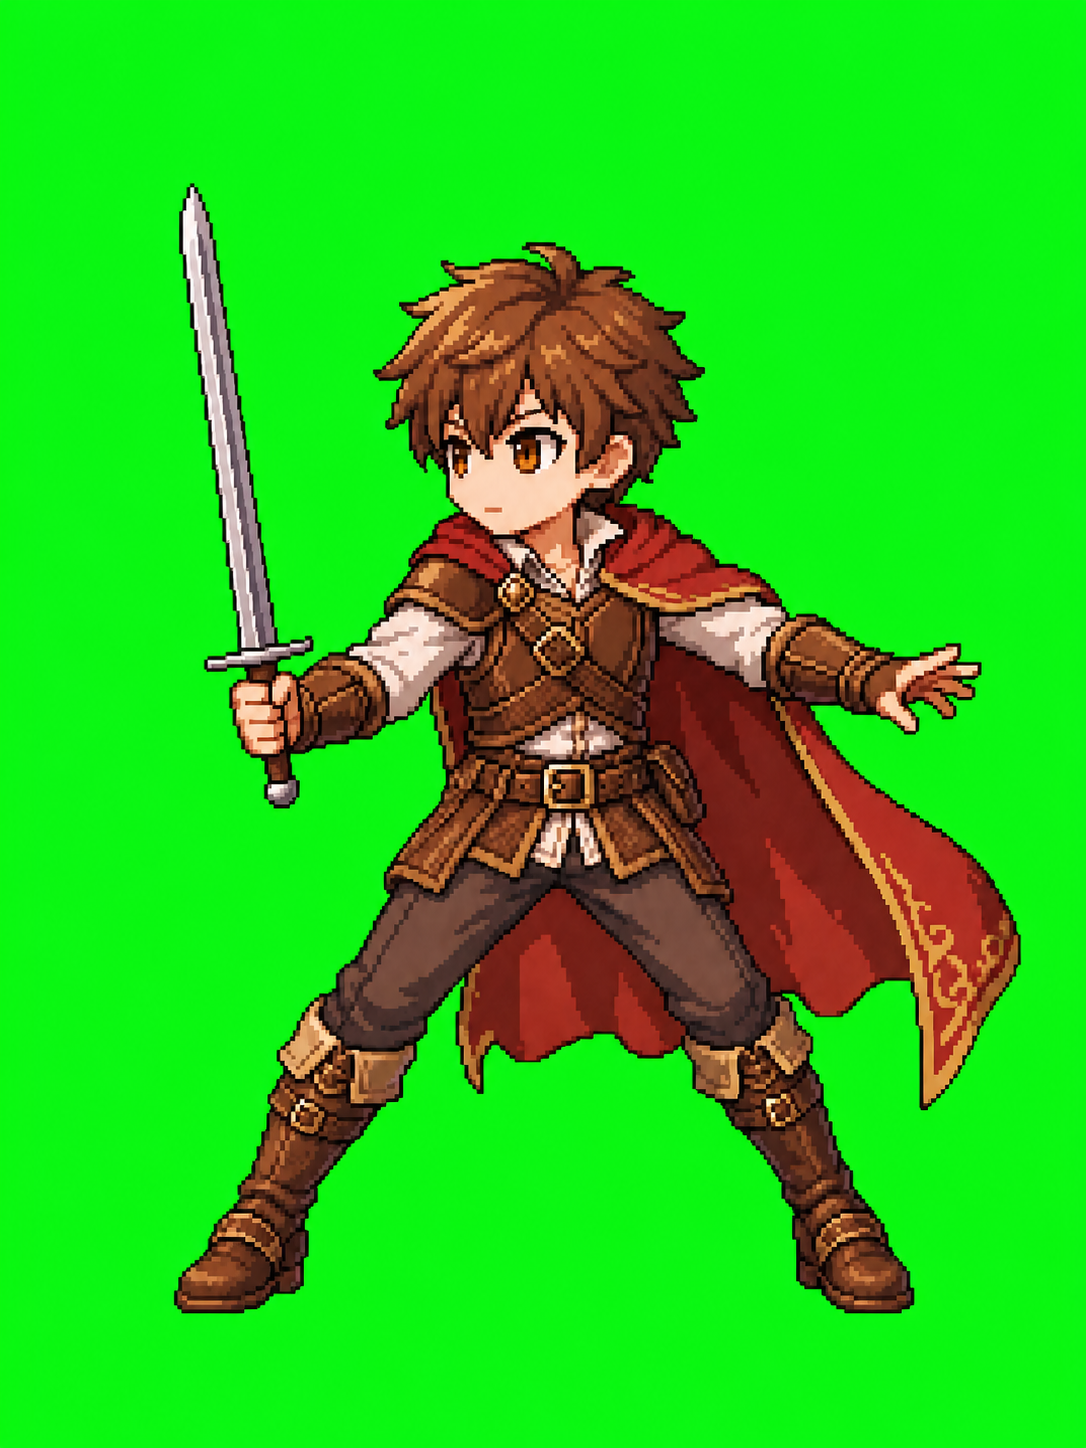
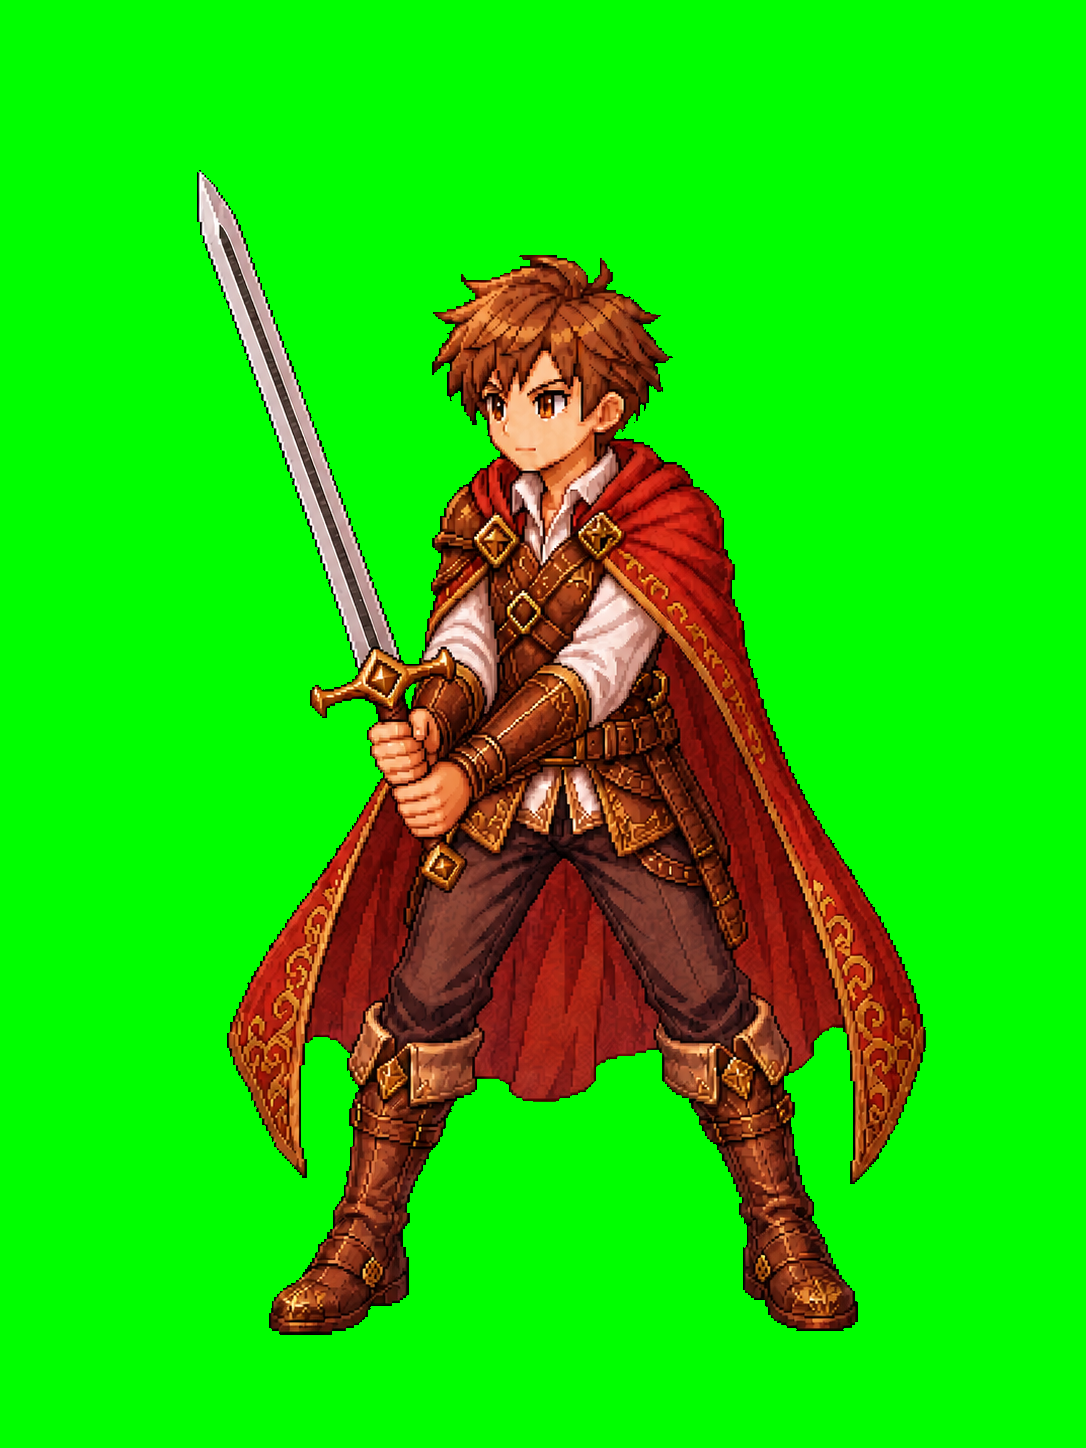
art: update Ludo battle poses

Changed region(s): [[0.1519, 0.1243, 0.942, 0.9323]]

diff --git a/TASKS/17_戰鬥角色美術統一.md b/TASKS/17_戰鬥角色美術統一.md
@@ -1,0 +1,86 @@
+# 戰鬥角色 3.5 頭身統一與動畫補齊
+
+- Task 版本: v1.23
+- 對應規則來源快照: N/A（John 2026-08-09 戰鬥角色美術方向定案；不對應 `build_cq2.py` 規則）
+- 狀態: 實作中（規格與產線文件已定案；角色重製、補幀與 runtime 整合待執行）
+- 規格來源: [`docs/design/戰鬥立繪規格.md`](../docs/design/戰鬥立繪規格.md)
+- 產線來源: [`docs/pipeline/battle_art/workflow.md`](../docs/pipeline/battle_art/workflow.md)
+- 驗收來源: [`docs/pipeline/battle_art/checklist.md`](../docs/pipeline/battle_art/checklist.md)
+
+## 目標
+
+將我方戰鬥角色統一為約 3.5 頭身的 HD Pixel Art 家族，再依角色設定身高調整 runtime 大小。亞倫、莉莉、潔絲是已驗收的比例基準；路德、瑪琳必須從 Seed 開始重製，不可用 Resize 修正舊二頭身素材。
+
+## 不在本任務範圍
+
+- overworld 行走圖仍可使用二頭身，不因戰鬥立繪改版而全數重做。
+- 不修改角色設定身高、服裝、武器設計或戰鬥數值。
+- 不在預覽驗收階段覆寫 `godot-project/assets/battle/` 現行素材。
+
+## 已完成的規格工作
+
+- [x] 我方戰鬥角色定案為約 3.5 頭身，可接受區間 3.3～3.7。
+- [x] 將「內部頭身比例」與「runtime 角色身高」分開定義。
+- [x] 正式角色 prompt 改用 `battle_role_hd_pixel_v5.md`；舊 v1～v4 保留為凍結歷史快照。
+- [x] 定義 G0～G7 分階段驗收，不得跳過鍵色靜態幀、Alpha 靜態幀與 GIF 驗收。
+- [x] 定義 Idle 的真實局部重繪、雙腳 root-lock、武器完整與首尾無縫規則。
+
+## 現況與 TODO 總表
+
+| 角色 | 身高 | 比例判定 | 可保留 | 還沒做／需重做 |
+|---|---:|---|---|---|
+| 亞倫 `alan` | 178 cm | 3.5 頭身基準 | Seed、weapon、idle 4、hurt、cast、death、attack 5 | runtime 依身高換算＋全隊 lineup 複驗 |
+| 莉莉 `lily` | 162 cm | 3.5 頭身基準 | Seed、weapon、idle 4、hurt、cast | **death 1、attack 約 5**；runtime 依身高換算＋全隊 lineup 複驗 |
+| 潔絲 `jess` | 167 cm | 3.5 頭身基準 | Seed、weapon、idle 4（`0→2→3→2`） | **hurt 1、cast 1、death 1、attack 約 5**；全隊 lineup 複驗 |
+| 路德 `ludo` | 165 cm | 3.5 頭身 Seed 已驗收 | Menu Art、weapon reference、雙手持劍 Seed、idle 4（`0→1→2→1`）、hurt 1、cast 1、death 1 | **attack 重做**；全隊 lineup 複驗 |
+| 瑪琳 `marin` | 158 cm | 3.5 頭身 Seed 已驗收 | Menu Art、weapon reference、左手短刀 Seed、idle 4、hurt、cast、death | **attack 重做**；runtime 換圖與全隊 lineup 複驗 |
+
+> `cast` 目前尚未接入 runtime，但仍屬角色完整交付集；整合時可先放入素材並保留未使用狀態。
+
+## 執行順序
+
+### Phase 1：重製比例不合格角色
+
+- [x] **P1-1 路德 Seed**：以 Menu Art／角色設定＋現有 weapon reference 重畫 165 cm、3.5 頭身中性備戰 Seed；2026-08-10 已通過 G1／G2（雙手持劍候選 3、Alpha、等高比例與設定身高 lineup）。
+- [x] **P1-2 瑪琳 Seed**：以 Menu Art／角色設定＋現有 weapon reference 重畫 158 cm、3.5 頭身中性備戰 Seed；2026-08-11 已通過 G1／G2（左手持短刀候選 3、Alpha 邊緣與洋紅 spill 驗收）。
+- [x] **P1-3 Seed lineup**：2026-08-11 五人等主體高度與設定身高 lineup 已驗收；人物高度改以中央人體頭頂至最低鞋底計算，武器不納入縮放量測。
+
+### Phase 2：補齊與重製動作
+
+- [ ] **P2-1 路德全套**：idle 4 → hurt 1 → cast 1 → death 1 → attack 約 5；2026-08-12 `idle / ready_guard` 採 John 核可的分段 key pose fallback，正式循環 `0 → 1 → 2 → 1`，G4～G6 通過後已於 G7 以共用 0.5× Nearest 正規化至 543×724 並整合 `hero_ludo_idle_0..3.png`。2026-08-13 `hurt / recoil_guard` 採候選 A 劍身拉直修正版，G3／G5 通過後以相同 0.5× Nearest 對齊 Idle 的 bottom-center 與腳底線，整合為 `hero_ludo_hurt.png`。同日 `cast / two_hand_focus` 採完整左側身、閉眼、雙手伸直發射姿勢與長劍完整收鞘版本，G3／G5 通過後以相同尺度與錨點新增 `hero_ludo_cast.png`；目前 Cast 尚未接線。`death / fall_forward` 採五體投地趴伏版本，G3／G5 通過後以 0.5× Nearest 保持尺度，橫向中心與最低點對齊 Runtime 共同中心／地面線並整合為 `hero_ludo_death.png`。依 John 指示，Godot import／測試延後至 Attack 整合後一併執行。attack 尚待重做。
+- [ ] **P2-2 瑪琳全套**：idle 4 → hurt 1 → cast 1 → death 1 → attack 約 5；2026-08-11 `idle / calm_ready` 採 `0 → 1 → 2 → 1` 分段 key pose，John 手動去背的三張 `finetune` 已通過 G6；G7 已將 543×724 Alpha 四幀整合為 `hero_marin_idle_0..3.png`，腳底 `y=628`。2026-08-13 `hurt / recoil_guard` G3 採候選 1，G5 Alpha 已通過驗收（髮梢紫紅 spill 已修正且未改變 Alpha 輪廓）；同日 `cast / offhand_rear_cast` 採三分之二背面候選 1 的刀身軸線修正版，G3／G5 已通過，二值 Alpha 只重著色 195 個明顯洋紅污染像素。`death / fall_forward` 採側趴倒地候選 1，頭、軀幹與腿確實落地，短刀完整掉落於左手附近；G3／G5 已通過，Alpha 保持二值並清除輪廓洋紅污染。hurt／cast／death 尚待瑪琳全套完成後統一進入 G7；目前只剩 attack 待重做。
+- [ ] **P2-3 莉莉補齊**：death 1 → attack 約 5。
+- [ ] **P2-4 潔絲補齊**：hurt 1 → cast 1 → death 1 → attack 約 5。
+
+多幀動作（idle／attack）獨立走完 `G3 首幀 → G4 鍵色 strip 靜態 → G5 Alpha 靜態 → G6 GIF`；單幀動作（hurt／cast／death）走 `G3 鍵色靜態 → G5 Alpha 靜態`。不得因同一角色的上一個動作已通過而跳關。
+
+### Phase 3：runtime 正規化與全隊驗收
+
+- [ ] **P3-1 身高正規化**：以潔絲 `167 cm = 250px` 為基準，按 `250 × cm ÷ 167` 計算每位角色 idle 主體可見高度；runtime 程式調整由 MOD-E owner 執行或協調。
+- [ ] **P3-2 同角色狀態校正**：attack／hurt／cast 對齊該角色 idle 主體高度與腳底線；同一 strip 共用一個倍率。
+- [ ] **P3-3 五人靜態 lineup**：同地面線、實際身高、同畫面並列檢查比例、排列、武器與視覺密度。
+- [ ] **P3-4 五人 Idle GIF**：同時播放，檢查呼吸幅度、節奏、雙腳錨點、武器完整與循環。
+- [ ] **P3-5 John 最終核可**：靜態 lineup 與 GIF 都通過後，才進入 G7。
+
+### Phase 4：正式整合
+
+- [ ] 由 MOD-I owner 先備份現行 runtime 素材，再以固定 `hero_<id>_*` 檔名替換；不在未核可階段覆寫。
+- [ ] 更新各角色 `prompts/descriptions/<id>.md` 的已驗收狀態與循環幀順序。
+- [ ] 更新 `CREDITS_素材授權.md`，確認 Pixel Art texture 使用 Nearest。
+- [ ] 執行 Godot headless 檢查與戰鬥場景驗證，確認無 import error／warning。
+- [ ] 本 Task 狀態改為「已驗收」，並同步相關章節任務狀態。
+
+## 檔案 Owner 與衝突規則
+
+- 本任務擁有：`assets-source/role/main/{alan,lily,jess,ludo,marin}/battle_*`、`docs/pipeline/battle_art/**`、本 Task。
+- `godot-project/assets/battle/**` 仍由 MOD-I（`TASKS/09_美術管線.md`）擁有；G7 正式換圖必須由 MOD-I owner 執行或明確協調後修改。
+- `godot-project/scripts/battle/**` 仍由 MOD-E（`TASKS/05_戰鬥ATB.md`）擁有；角色身高正規化如需修改 `battle_state_machine.gd`，必須交由 MOD-E owner 執行或先取得協調，本任務不直接跨 owner 修改。
+- `TASKS/16_第二章施工.md` 只消費本任務產出；不得另外建立一套莉莉／潔絲戰鬥圖流程。
+
+## Definition of Done
+
+1. 五位角色的 Seed 與所有要求動作都符合約 3.5 頭身與角色外觀 reference。
+2. 每個動作都有可追溯的鍵色靜態幀、Alpha 靜態幀與 John 分階段驗收結果；多幀動作另有循環／播放 GIF。
+3. 五人依設定身高排列後，內部比例、Pixel Art 密度、呼吸幅度、腳點與武器完整性一致。
+4. John 通過全隊靜態 lineup 與 Idle GIF。
+5. 正式素材已整合、CREDITS 與 descriptions 已同步，Godot headless 檢查通過。

diff --git a/CREDITS_素材授權.md b/CREDITS_素材授權.md
@@ -94,9 +94,12 @@ LPC 角色產生器圖層合成（CC-BY-SA/GPL），圖層配方參考 overworld
   武器圖層取自 LPC weapon walk（longsword/dagger/saber，CC-BY-SA/GPL）。
   - **戰鬥動畫命名改制（2026-07-27，作法B）**：runtime 改為每角一套 `hero_<id>_idle_0..3` ＋單一 `hero_<id>_attack_0..N`（不再分 slash/thrust/spellcast；見 `battle_state_machine.gd` `_load_frames`／`_load_anim_frames`）。舊 `hero_ludo_f/slash/thrust/spellcast`、`hero_marin_f0-3`、`hero_alan_f0-3` 已改名或移除。
   - `hero_marin_idle_0-3` / `hero_marin_attack_0-4`（2026-07-30 更新）：Marin 重製的二頭身戰鬥 idle／attack strip 切幀，AI 生成（imagegen）＋去背，經 John 驗收；attack 五幀已統一為與 idle 相同的 543×724 畫布，以雙腳區域錨點與腳底 y=659 鎖定，消除 idle→attack 位移。來源 strip 於 `assets-source/role/main/marin/`（`battle_idle_*`／`battle_attack_*`）。取代 2026-07-20 的舊 `hero_marin_f0-3`。提示詞作者 John／協作 Agent。
-  - `hero_ludo_idle_0-3`（2026-07-27 整合）：Ludo 重製 idle 切幀（AI 生成，來源 `assets-source/role/main/ludo/ludo_battle_idle_*`）。**2026-07-27 再修**：原四幀切圖腳部水平漂移（idle 時像在平移），以「腳部中心對齊畫布中心」重新水平置中消除。`hero_ludo_attack_0-4`（2026-07-30 更新）：Ludo 重製的 `sword_diagonal_slash` 五幀 strip，AI 生成＋去背；逐幀以與 idle 相同的 543×724 畫布、可見中心與腳底 y=610 正規化，消除 idle→attack 的向上位移，已取代舊 LPC slash 六幀。
+  - `hero_ludo_idle_0..3`（2026-08-12 更新）：Ludo 3.5 頭身雙手持劍 `idle / ready_guard` 四幀循環，由 OpenAI 內建 imagegen 依已驗收 Seed、長劍 reference 與 Idle 首幀生成 Frame 0／2；Frame 1 使用固定端點 motion-compensated midpoint，正式循環為 `0 → 1 → 2 → 1`。G3～G7 經 John 分階段驗收，正式幀以共用 0.5× Nearest 正規化至 543×724、角色可見中心約 `x=268`、可見框下界 `y=659`。來源保存於 `assets-source/role/main/ludo/battle_idle_0..3.png`、`battle_idle_strip_{raw,alpha}.png`、`battle_idle_review_montage.png` 與 `battle_idle_review.gif`；替換前 runtime 四幀封存於 `assets-source/role/main/ludo/unofficial/idle/runtime_before_3_5_head/`。提示詞作者 John／協作 Agent。`hero_ludo_attack_0-4` 仍為 2026-07-30 的舊二頭身素材，待 P2-1 重做。
+  - `hero_ludo_hurt.png`（2026-08-13 更新）：Ludo 3.5 頭身雙手持劍 `hurt / recoil_guard` 單幀，由 OpenAI 內建 imagegen 依已驗收 Seed、長劍 reference 與 Idle 首幀生成；John 選定候選 A，並依標註局部重繪拉直劍身。受擊來自畫面左側，上身向右短促後仰，雙腳接地且雙手持續握住同一劍柄。G3／G5／G7 經 John 分階段驗收，來源保存於 `assets-source/role/main/ludo/battle_hurt_{raw,alpha}.png`；正式圖以 0.5× Nearest 正規化至 543×724、可見中心 `x=267`、腳底最後可見像素 `y=658`，對齊同角色 Idle。替換前 runtime 封存於 `assets-source/role/main/ludo/unofficial/hurt/runtime_before_3_5_head/`。提示詞作者 John／協作 Agent；依 John 指示，本次未執行 Godot import／測試。
+  - `hero_ludo_cast.png`（2026-08-13 新增）：Ludo 3.5 頭身 `cast / two_hand_focus` 單幀，由 OpenAI 內建 imagegen 依已驗收 Seed、長劍 reference 與 Idle 首幀生成；John 驗收完整左側身、閉眼集中、雙手向敵方伸直的發射姿勢，以及完整收入右腰劍鞘並延伸至小腿肚的長劍。此動作不含任何魔法特效，且為雙手持劍常規的指定例外。G3／G5／G7 經 John 分階段驗收，來源保存於 `assets-source/role/main/ludo/battle_cast_{raw,alpha}.png`；正式圖以 0.5× Nearest 正規化至 543×724、可見中心 `x=267`、腳底最後可見像素 `y=658`，對齊同角色 Idle。此前 runtime 無同名 Cast；Cast 目前尚未接入戰鬥程式。提示詞作者 John／協作 Agent；Godot import／測試依 John 指示延後至路德剩餘動作整合後一併執行。
+  - `hero_ludo_death.png`（2026-08-13 更新）：Ludo 3.5 頭身 `death / fall_forward` 單幀，由 OpenAI 內建 imagegen 依已驗收 Seed、長劍 reference 與 Idle 首幀生成；John 驗收五體投地趴伏、臉朝下、胸腹貼地、雙臂攤開、雙腿後伸、披風覆背鋪地與長劍掉落手邊的最終定格。G3／G5／G7 經分階段驗收，來源保存於 `assets-source/role/main/ludo/battle_death_{raw,alpha}.png`；正式圖以 0.5× Nearest 保持同角色尺度，置入 543×724 Runtime，橫向剪影中心約 `x=268`、最低可見像素 `y=658`，對齊同角色共同中心與地面線。替換前 runtime 封存於 `assets-source/role/main/ludo/unofficial/death/runtime_before_3_5_head/`。提示詞作者 John／協作 Agent；Godot import／測試依 John 指示延後至 Attack 整合後一併執行。
   - `hero_alan_idle_0-3` / `hero_alan_attack_0-4`（2026-07-30 更新）：Alan 重製的二頭身戰鬥圖，AI 生成（imagegen）＋去背，經 John 驗收。idle 為 `calm_ready` 四幀呼吸循環（來源 `assets-source/role/main/alan/battle_idle_strip_{raw,alpha}.png` 與 `battle_idle_0..3.png`，腳底與角色中心錨點已鎖定）；attack 五幀以共用 68% 等比縮放放入同一 543×724 畫布，雙腳錨點與腳底 y=605 鎖定，完整保留水平揮劍。取代先前暫用的舊 LPC idle 與 Alan 單張靜態 idle。提示詞作者 John／協作 Agent。
-  - `hero_<id>_hurt` / `hero_<id>_death`（三主角，2026-07-27 整合並接線）：受傷時 sprite 換 hurt 圖＋震動、HP 歸零換 death 圖（見 `battle_state_machine.gd` 我方 sprite 貼圖優先序）。來源：marin/alan＝`battle_{hurt,death}_alpha.png`、ludo＝`ludo_battle_{hurt,death}.png`。**cast 暫不整合**（尚無元素魔法技能）。AI 生成、提示詞作者 John／協作 Agent。
+  - `hero_<id>_hurt` / `hero_<id>_death`（三主角，2026-07-27 整合並接線）：受傷時 sprite 換 hurt 圖＋震動、HP 歸零換 death 圖（見 `battle_state_machine.gd` 我方 sprite 貼圖優先序）。來源：marin/alan＝`battle_{hurt,death}_alpha.png`；ludo 的 hurt／death 已由上方 2026-08-13 新版取代。**cast 暫不整合**（尚無元素魔法技能）。AI 生成、提示詞作者 John／協作 Agent。
   - Marin 短刀戰鬥外觀 seed（2026-07-23）：OpenAI 內建 imagegen 依正式 `battle_role_hd_pixel_v2` prompt、既有 Marin seed 參考生成，經 John 驗收。洋紅鍵原圖與 RGBA 版保存於 `assets-source/role/main/marin/battle_seed_raw.png`、`battle_seed_alpha.png`。此 seed 僅作後續動作產圖的固定外觀 reference，不屬於 runtime 動畫幀。提示詞作者 John／協作 Agent。
   - Marin 短刀與 Ludo 單手劍 weapon reference（2026-07-23）：OpenAI 內建 imagegen 依各自的武器部件說明圖萃取，經 John 驗收並以螢光綠鍵去背為 `assets-source/role/main/marin/battle_weapon_marin_alpha.png` 與 `assets-source/role/main/ludo/battle_weapon_ludo_alpha.png`。兩圖僅作後續 seed／動作產圖的武器外觀 reference，不屬於 runtime 素材；提示詞作者 John／協作 Agent。
   - Alan 單手劍 weapon reference（2026-07-27）：OpenAI 內建 imagegen 依 `menuart_alan.png` 腰佩劍外觀萃取，經 John 驗收並以洋紅鍵去背為 `assets-source/role/main/alan/battle_weapon_alan_alpha.png`（鍵圖保留為 `battle_weapon_alan_raw.png`）。此圖僅作後續 seed／動作產圖的武器外觀 reference，不屬於 runtime 素材；提示詞作者 John／協作 Agent。

diff --git a/docs/pipeline/battle_art/prompts/descriptions/ludo.md b/docs/pipeline/battle_art/prompts/descriptions/ludo.md
@@ -2,11 +2,16 @@
 
 - 底色: 螢光綠 `#00FF00`
 - ref: `godot-project/assets/ui/menuart_ludo.png`
-- seed ref: `assets-source/role/main/ludo/battle_seed_alpha.png`（2026-07-23 已驗收，採候選 2；既有日期版動作圖不可作為正式 seed）
-- weapon ref: `assets-source/role/main/ludo/battle_weapon_ludo_alpha.png`（單手劍外觀錨點；產 seed、動作首幀與 strip 時必須實際附圖）
-- 武器規格: 右手主手；單手劍總長（劍尖至劍柄尾端）約為角色從頭頂到鞋底完整高度的 2/3，劍身約為劍柄的 4 倍，銀灰劍身、中央血槽、暖金色護手與圓形劍首、深棕劍柄。可整體縮放以使右手完整握住劍柄，但不得改變部件比例。
-- 最後一版: 2026-07-22 的 idle strip／hurt／cast／death 為既有候選紀錄；`attack / sword_diagonal_slash` 五幀 strip 於 2026-07-27 以目前固定 seed 與 weapon reference 重產並驗收（準備 → 蓄力 → 斜向揮出 → 低位收招 → 回復）；2026-07-30 再正規化為與 idle 相同的 543×724 畫布，角色可見中心與腳底基準 y=610 鎖定，並整合為 runtime。
+- seed ref: `assets-source/role/main/ludo/battle_seed_alpha.png`（2026-08-10 已驗收；165 cm、約 3.5 頭身、雙手持劍候選 3；後續所有動作必須實際附圖）
+- weapon ref: `assets-source/role/main/ludo/battle_weapon_ludo_alpha.png`（劍的外觀錨點；產 seed、動作首幀與 strip 時必須實際附圖）
+- 比例狀態: **G1／G2 已通過**；2026-08-10 驗收 165 cm、約 3.5 頭身的雙手持劍 Seed 候選 3，Alpha、等高比例與設定身高 lineup 均通過。
+- 武器規格: 劍型沿用既有單手劍 weapon reference，但 Seed 與後續動作固定採雙手持握；右手靠護手、左手靠柄尾，雙手拇指與四指完整環握同一段握柄，雙腕與劍柄同軸且不得重疊。劍總長（劍尖至劍柄尾端）約為角色從頭頂到鞋底完整高度的 2/3，劍身約為劍柄的 4 倍，銀灰劍身、中央血槽、暖金色護手與菱形劍首、深棕劍柄。可整體縮放以使雙手正確握住，但不得改變部件比例或增加第二個柄尾／裝飾。
+- idle: `ready_guard`；G3 首幀 `assets-source/role/main/ludo/battle_idle_raw.png`（2026-08-11 已驗收候選 A；低重心防守、右手靠護手與左手靠柄尾，雙手完整持握同一劍柄）。前兩次完整 strip 因首幀漂移、安全留白不足與跨幀比例變化退回；2026-08-12 改採 John 核可的分段 key pose fallback，Frame 2 選候選 A、Frame 1 使用固定端點 motion-compensated midpoint，正式循環 `0 → 1 → 2 → 1`。G4～G6 已驗收，G7 以共用 0.5× Nearest 正規化為 543×724、角色可見中心約 `x=268`、可見框下界 `y=659`，整合至 `hero_ludo_idle_0..3.png`；舊 runtime 四幀封存於 `unofficial/idle/runtime_before_3_5_head/`。
+- hurt: `recoil_guard`；受擊來自畫面左側，上身向右短促後仰、雙腳保持接地，右手靠護手與左手靠柄尾持續雙手握住同一把劍，劍身斜護胸前。G3 採候選 A 的劍身拉直修正版，保存為 `assets-source/role/main/ludo/battle_hurt_raw.png`；G5 去背版為 `battle_hurt_alpha.png`。2026-08-13 完成 G7，以 0.5× Nearest 正規化至 543×724、可見中心 `x=267`、腳底最後可見像素 `y=658`，整合至 `hero_ludo_hurt.png`；舊 runtime 封存於 `unofficial/hurt/runtime_before_3_5_head/`。依 John 指示，本次只整合素材與文件，Godot import／測試暫緩。
+- cast: `two_hand_focus`；本動作依 John 指定作為雙手持劍常規的例外：完整左側身、閉眼集中，雙手離開武器向畫面左側伸直，十指呈發射姿勢但不含任何魔法特效；長劍完整收入右腰劍鞘，鞘尖延伸至小腿肚。G3／G5 已驗收，來源保存為 `assets-source/role/main/ludo/battle_cast_{raw,alpha}.png`。2026-08-13 完成 G7，以 0.5× Nearest 正規化至 543×724、可見中心 `x=267`、腳底最後可見像素 `y=658`，新增 `hero_ludo_cast.png`；此前 runtime 無同名 Cast，舊二頭身來源僅留在 `unofficial/battle/legacy_2026_07/source_bundle/`。Cast 尚未接入戰鬥程式；Godot import／測試依 John 指示延後至路德剩餘動作整合後一併執行。
+- death: `fall_forward`；戰敗後五體投地趴伏，臉朝下、胸腹貼地、雙臂無力攤在前方、雙腿向後伸展，披風覆背鋪地；長劍完整掉落在手邊。G3／G5 已驗收，來源保存為 `assets-source/role/main/ludo/battle_death_{raw,alpha}.png`。2026-08-13 完成 G7，以 0.5× Nearest 保持同角色尺度，置入 543×724 Runtime 並將橫向趴地剪影中心對齊 `x=268`、最低可見像素對齊共同地面線 `y=658`，整合至 `hero_ludo_death.png`；舊 runtime 封存於 `unofficial/death/runtime_before_3_5_head/`。Godot import／測試依 John 指示延後至 Attack 整合後一併執行。
+- 最後一版: 2026-08-13 雙手持劍 Seed、`idle / ready_guard` 四幀循環、`hurt / recoil_guard`、`cast / two_hand_focus` 與 `death / fall_forward` 均已完成分階段驗收並整合 runtime；僅 attack 尚待依新 3.5 頭身規格重製。2026-07-22 的 idle／hurt／cast／death 與 2026-07-27 attack 皆為舊二頭身技術紀錄，只保留作為動作方向、切幀與 root-lock 錯誤排查參考，不屬於新規格已驗收素材。
 
 ```
-15 歲少年，蓬鬆棕髮、金褐色眼睛、開朗有活力；身穿白襯衫，外罩棕色皮甲，搭配簡化皮帶扣，披一件紅色披風，帶金色紋飾滾邊；前臂戴簡化刻花皮革護腕，繫皮腰帶，穿長靴。右手以拇指與四指完整環握一把簡潔單手劍，左手向另一側平舉保持平衡。臉和視線朝向畫面左側，低重心中性備戰站姿，雙腳前後站立，披風微微揚起；腳底固定於基準線，角色輪廓清楚。這段只定義外觀與 seed，不取代任何動畫動作描述。
+15 歲少年，蓬鬆棕髮、金褐色眼睛、開朗有活力；身穿白襯衫，外罩棕色皮甲，搭配簡化皮帶扣，披一件紅色披風，帶金色紋飾滾邊；前臂戴簡化刻花皮革護腕，繫皮腰帶，穿長靴。雙手持握一把簡潔長劍：右手靠護手、左手靠柄尾，兩手依序環握同一段深棕握柄，劍身由身前斜指畫面左上。臉和視線朝向畫面左側，低重心中性備戰站姿，雙腳前後站立，披風微微揚起；腳底固定於基準線，角色輪廓清楚。這段只定義外觀與 seed，不取代任何動畫動作描述。
 ```
